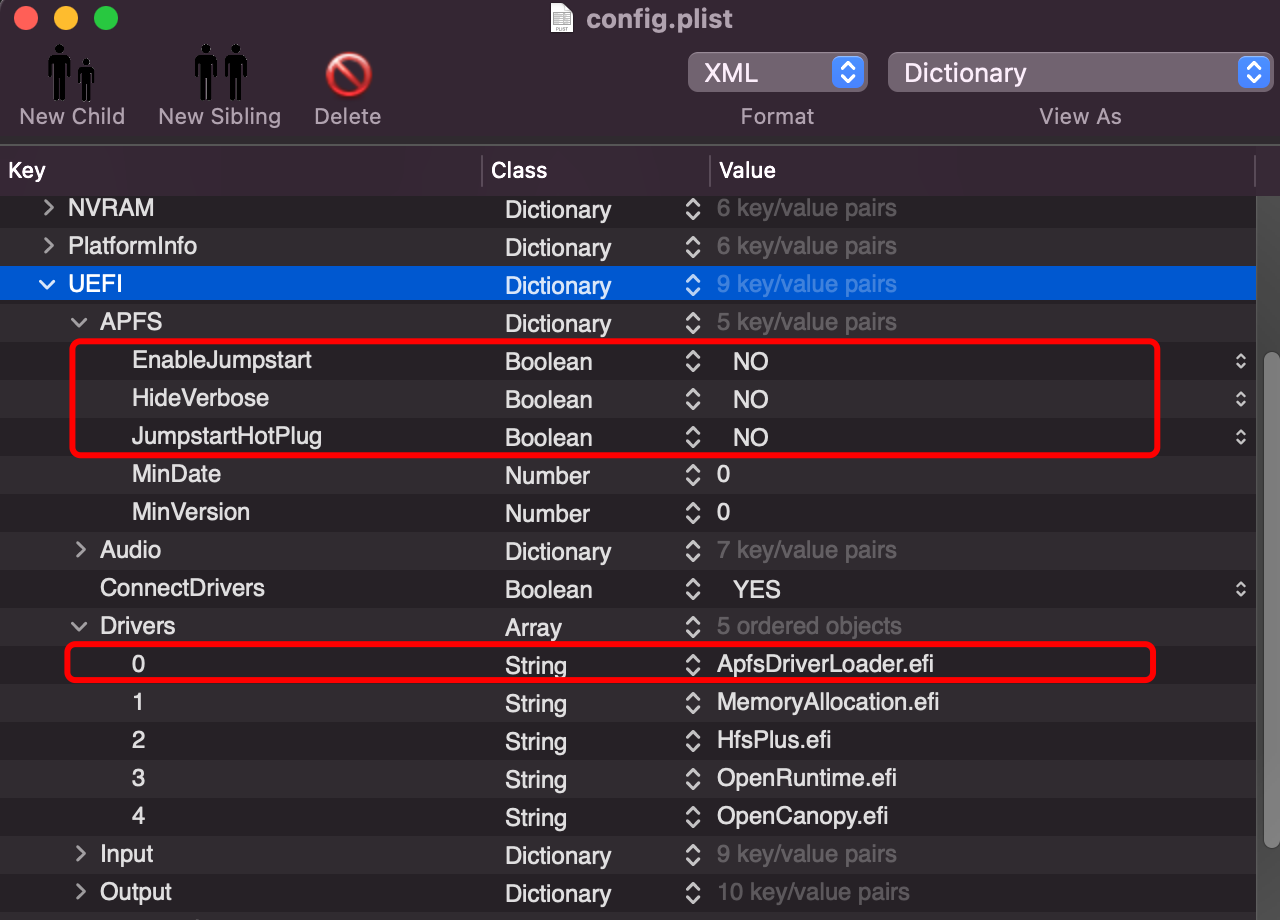
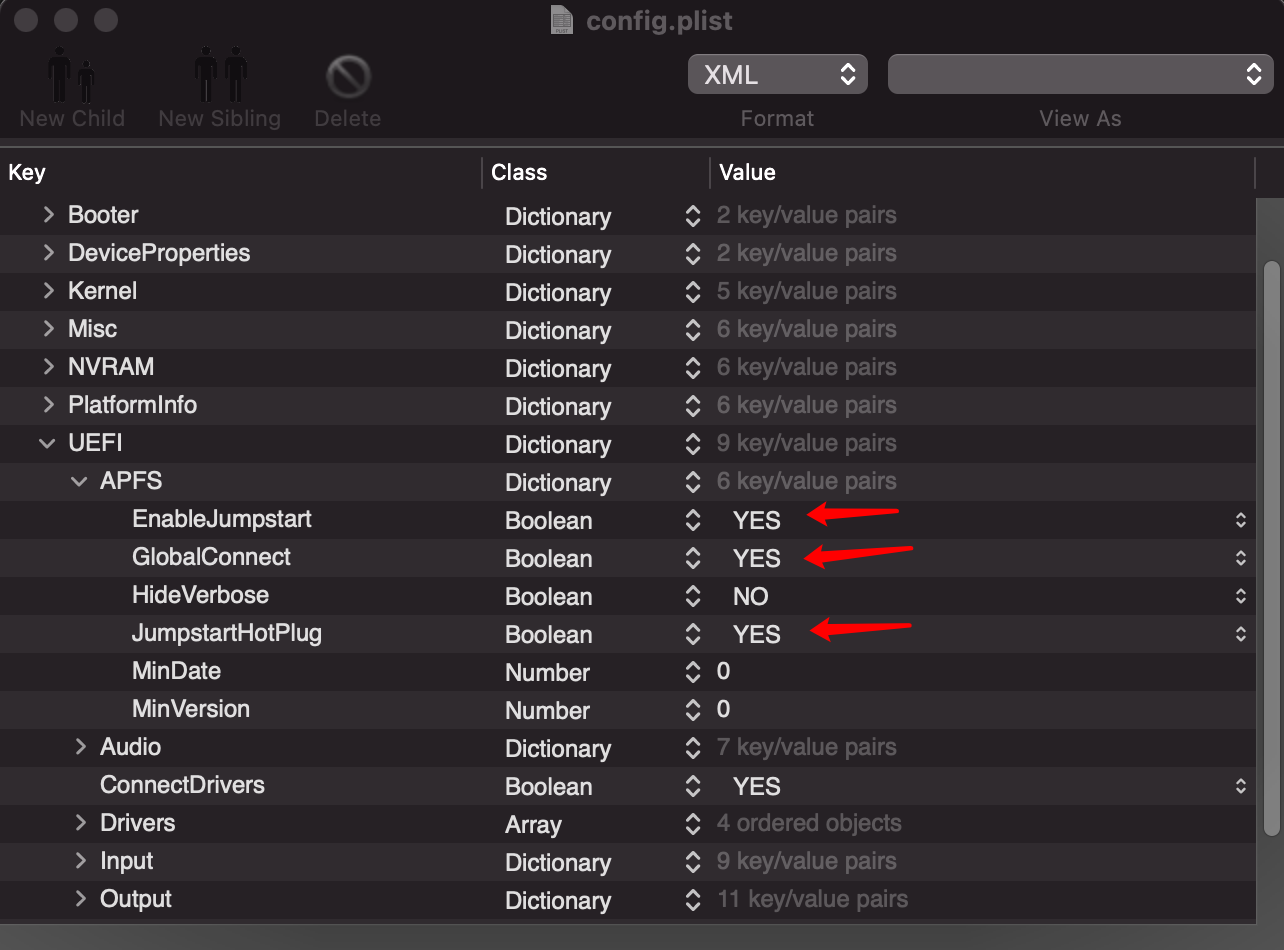
update

diff --git a/source/_posts/About-BigSur.md b/source/_posts/About-BigSur.md
@@ -7,7 +7,7 @@ id: 65
 categories:
   - Hackintosh
 date: 2020-07-09 00:54:00
-updated: 2020-07-09 17:46:00
+updated: 2020-07-12 01:20:00
 toc: true
 ---
 
@@ -36,10 +36,10 @@ https://github.com/bugprogrammer/HackintoshBuild/releases/tag/2.1
 
 # 2020-07-09更新
 ## Recovery进入
-用ApfsDriverLoader.efi代替掉OpenCore内置的apfs方案即可，如图
-![](/images/bigsur-4.png)
-![](/images/bigsur-5.png)
 
-<a href="https://downloads.bugprogrammer.me/efidriver/ApfsDriverLoader.efi">ApfsDriverLoader.efi</a>
+* 关闭核显或设置id为0x12345678
+* 按照如图设置即可
+![](/images/bigsur-4.png)
+
 
 
